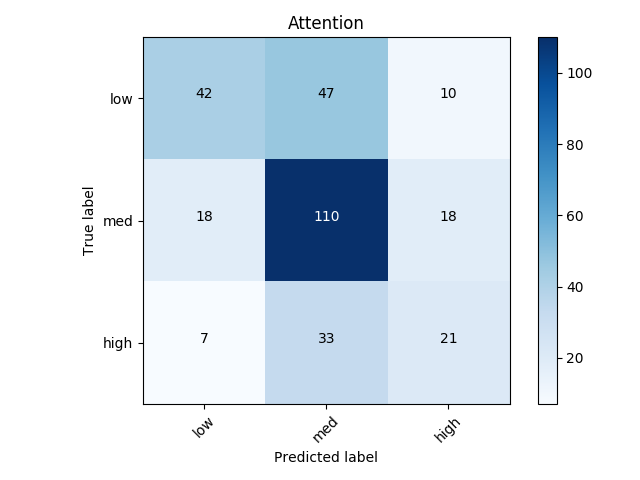
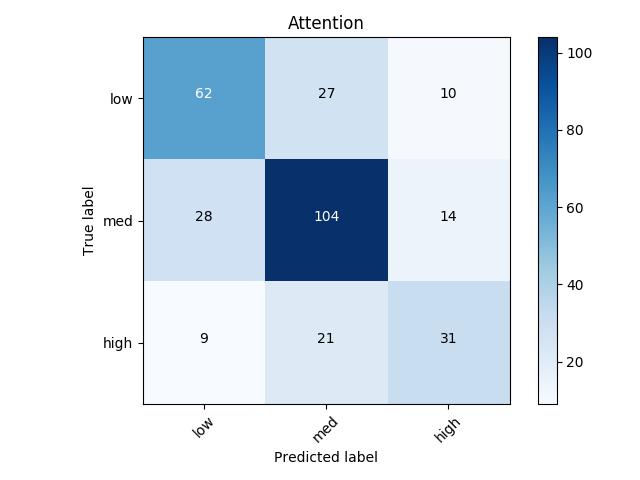
initial progress on bigram model

diff --git a/model.py b/model.py
@@ -11,7 +11,7 @@ class EmotionModel(object):
     
     def __init__(self):
         self.emotions = ['sadness', 'joy', 'fear', 'anger', 'challenge', 'boredom', 'frustration']
-        self.unigrams = {}
+        self.ngrams = {}
         self.priors = {}
         self.micro_fscores = 0.0
         self.macro_fscores = 0.0
@@ -39,8 +39,6 @@ class EmotionModel(object):
             res = tokenize(row['Player Message'])
             for word in res:
                 self.vocab.add(word)
-                if is_stop_word(word):
-                    continue
                 if word in words:
                     words[word][emotion] += 1
                     totals[emotion] += 1
@@ -55,7 +53,7 @@ class EmotionModel(object):
         for emotion in self.emotions:
             self.priors[emotion] = totals[emotion] / sum_totals
 
-        self.unigrams = self.calculate_probabilities(words, totals)
+        self.ngrams = self.calculate_probabilities(words, totals)
 
     def calculate_probabilities(self, words, totals):
         for word in words:
@@ -81,13 +79,11 @@ class EmotionModel(object):
             emotion = row['Emotion']
             response = tokenize(row['Player Message'])
             for word in response:
-                if is_stop_word(word):
-                    continue
                 res.append(word)
             parsed_message = ' '.join(res)
             messages[parsed_message] = {}
             self.true.append(emotion)
-            classification = self.classify(self.unigrams, parsed_message, self.priors)
+            classification = self.classify(self.ngrams, parsed_message, self.priors)
             self.pred.append(str(classification))
 
         self.calculate_scores()
@@ -184,7 +180,7 @@ class ClarkModel(object):
     def __init__(self):
         self.variables = ['Pleasantness', 'Attention', 'Control',
                           'Certainty', 'Anticipated Effort', 'Responsibililty']
-        self.unigrams = {}
+        self.ngrams = {}
         self.priors = {}
         self.bounds = {}
         self.micro_fscores = {}
@@ -205,9 +201,9 @@ class ClarkModel(object):
         """
 
         for var in self.variables:
-            unigrams, totals, priors = self.train_by_variable(training_data, var)
+            ngrams, totals, priors = self.train_by_variable(training_data, var)
             self.priors[var] = priors
-            self.unigrams[var] = self.smooth_values(unigrams, var, totals)
+            self.ngrams[var] = self.smooth_values(ngrams, var, totals)
 
     def train_by_variable(self, training_set, variable, data_points={}):
         """
@@ -218,7 +214,7 @@ class ClarkModel(object):
         variable (string): variable in use in training
 
         Returns:
-        Object: unigrams with associated counts
+        Object: ngrams with associated counts
         Object: sums for each classification
         Object: priors for each classification
         """
@@ -240,18 +236,28 @@ class ClarkModel(object):
         for row in training_set:
             weight = self.num_to_weight(row, variable)
             res = tokenize(row['Player Message'])
-            for word in res:
+            for i, word in enumerate(res):
+                temp_bigram = word + res[i+1] if i + 1 < len(res) else ""
                 self.vocab.add(word)
-                if is_stop_word(word):
-                    continue
+                if temp_bigram != "": self.vocab.add(temp_bigram) 
+
                 if word in words:
                     words[word][weight] += 1
                     totals = self.add_weight_to_total(weight, totals)
                 else:
-                    words[word] = {'low': 1, 'med': 1, 'high': 1}
+                    words[word] = self.initialize_av_weights()
                     words[word][weight] += 1
                     totals = self.add_weight_to_total(weight, totals)
-
+                
+                if temp_bigram in words:
+                    words[temp_bigram][weight] += 1
+                    totals = self.add_weight_to_total(weight, totals)
+                elif temp_bigram != "":
+                    words[temp_bigram] = self.initialize_av_weights()
+                    words[temp_bigram][weight] += 1
+                    totals = self.add_weight_to_total(weight, totals)
+                   
+                    
         priors = {
             'low': float(totals['num_low'])/float(totals['num_low'] + totals['num_med'] + totals['num_high']),
             'med': float(totals['num_med'])/float(totals['num_low'] + totals['num_med'] + totals['num_high']),
@@ -259,6 +265,9 @@ class ClarkModel(object):
         }
 
         return words, totals, priors
+
+    def initialize_av_weights(self):
+        return {'low': 1, 'med': 1, 'high': 1}
 
     def add_weight_to_total(self, cw, totals):
         """
@@ -347,28 +356,28 @@ class ClarkModel(object):
         if variable == 'Responsibililty':
             return num_to_weight_responsibility(row)
 
-    def smooth_values(self, unigrams, variable, totals):
+    def smooth_values(self, ngrams, variable, totals):
         """
         Performs smoothing on unigram values
 
         Parameters:
-        unigrams (object): unigrams with associated counts in training data
+        ngrams (object): ngrams with associated counts in training data
         variable (string): the variable associated with the unigram values
         totals (object): total number of low, med, and high classifications for the variable
 
         Returns:
-        Object: smoothed values for the unigrams
+        Object: smoothed values for the ngrams
         """
 
-        for word in unigrams:
-            unigrams[word]['low'] = float(
-                unigrams[word]['low'])/float(totals['num_low'] + len(self.vocab))
-            unigrams[word]['med'] = float(
-                unigrams[word]['med'])/float(totals['num_med'] + len(self.vocab))
-            unigrams[word]['high'] = float(
-                unigrams[word]['high'])/float(totals['num_high'] + len(self.vocab))
+        for word in ngrams:
+            ngrams[word]['low'] = float(
+                ngrams[word]['low'])/float(totals['num_low'] + len(self.vocab))
+            ngrams[word]['med'] = float(
+                ngrams[word]['med'])/float(totals['num_med'] + len(self.vocab))
+            ngrams[word]['high'] = float(
+                ngrams[word]['high'])/float(totals['num_high'] + len(self.vocab))
 
-        return unigrams
+        return ngrams
 
     def test(self, testing_data):
         """
@@ -390,8 +399,6 @@ class ClarkModel(object):
             res = []
             response = tokenize(row['Player Message'])
             for word in response:
-                if is_stop_word(word):
-                    continue
                 res.append(word)
             parsed_message = ' '.join(res)
             messages[parsed_message] = {}
@@ -399,7 +406,7 @@ class ClarkModel(object):
                 weight = self.num_to_weight(row, var)
                 self.true[var].append(weight)
                 messages[parsed_message][var] = weight
-                classification = self.classify(self.unigrams[var], parsed_message, self.priors[var])
+                classification = self.classify(self.ngrams[var], parsed_message, self.priors[var])
                 self.pred[var].append(classification)
 
         self.calculate_scores()
@@ -459,11 +466,17 @@ class ClarkModel(object):
         sum_med = float(0)
         sum_high = float(0)
 
-        for word in content.split():
+        res = content.split()
+        for i, word in enumerate(res):
             if word in training_dict:
                 sum_low += float(math.log(training_dict[word]['low']))
                 sum_med += float(math.log(training_dict[word]['med']))
                 sum_high += float(math.log(training_dict[word]['high']))
+            temp_bigram = word + res[i + 1] if i + 1 < len(res) else ''
+            if temp_bigram in training_dict and temp_bigram != '':
+                sum_low += float(math.log(training_dict[temp_bigram]['low']))
+                sum_med += float(math.log(training_dict[temp_bigram]['med']))
+                sum_high += float(math.log(training_dict[temp_bigram]['high']))
 
         low_prob = math.log(priors['low']) + sum_low
         med_prob = math.log(priors['med']) + sum_med

diff --git a/nlp_helpers.py b/nlp_helpers.py
@@ -8,7 +8,7 @@ Helper functions for parsing inputs
 
 def tokenize(row):
     """
-    Tokenizes the row exluding .;,:/-_&~
+    Tokenizes the row exluding .;,:/-_&~ and removes stop words
 
     Parameters:
     row (string): row of data
@@ -74,6 +74,8 @@ def tokenize(row):
             del init_res[i]
             continue
         if word in bad_characters:
+            del init_res[i]
+        if is_stop_word(word):
             del init_res[i]         
     
     return init_res

diff --git a/test.py b/test.py
@@ -99,6 +99,7 @@ def train_test_split(data_list, s, c_e, show_matrix=False):
 
         with open('results/CLARK_results.csv', 'w') as csv_file:
             writer = csv.writer(csv_file)
+            writer.writerow(['Variable', 'Micro F Score', 'Macro F Score'])
             for key, value in fscores.items():
                 writer.writerow([key, value[0], value[1]])
 
